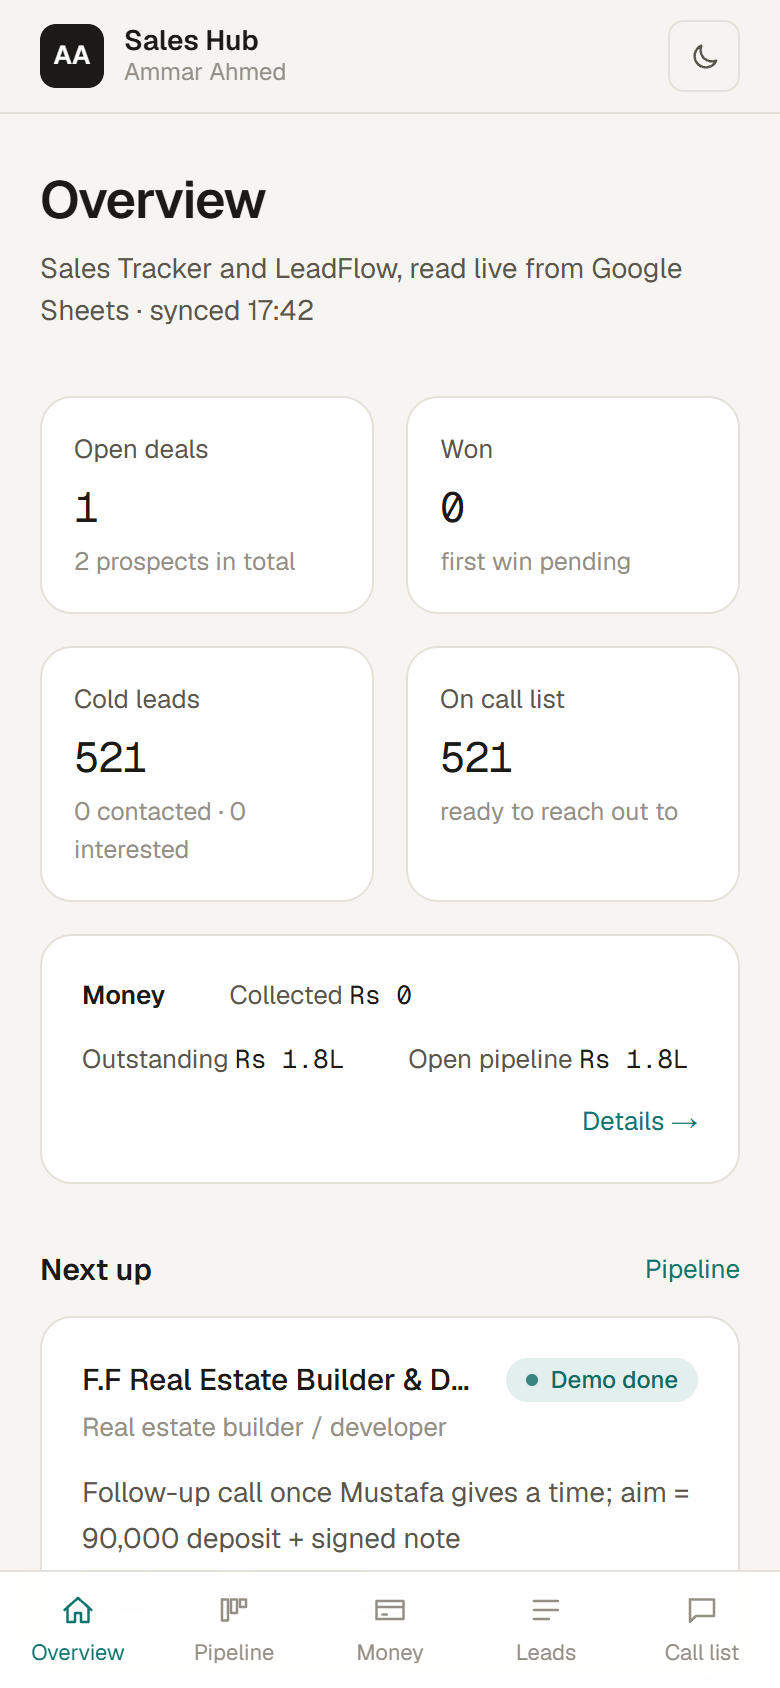
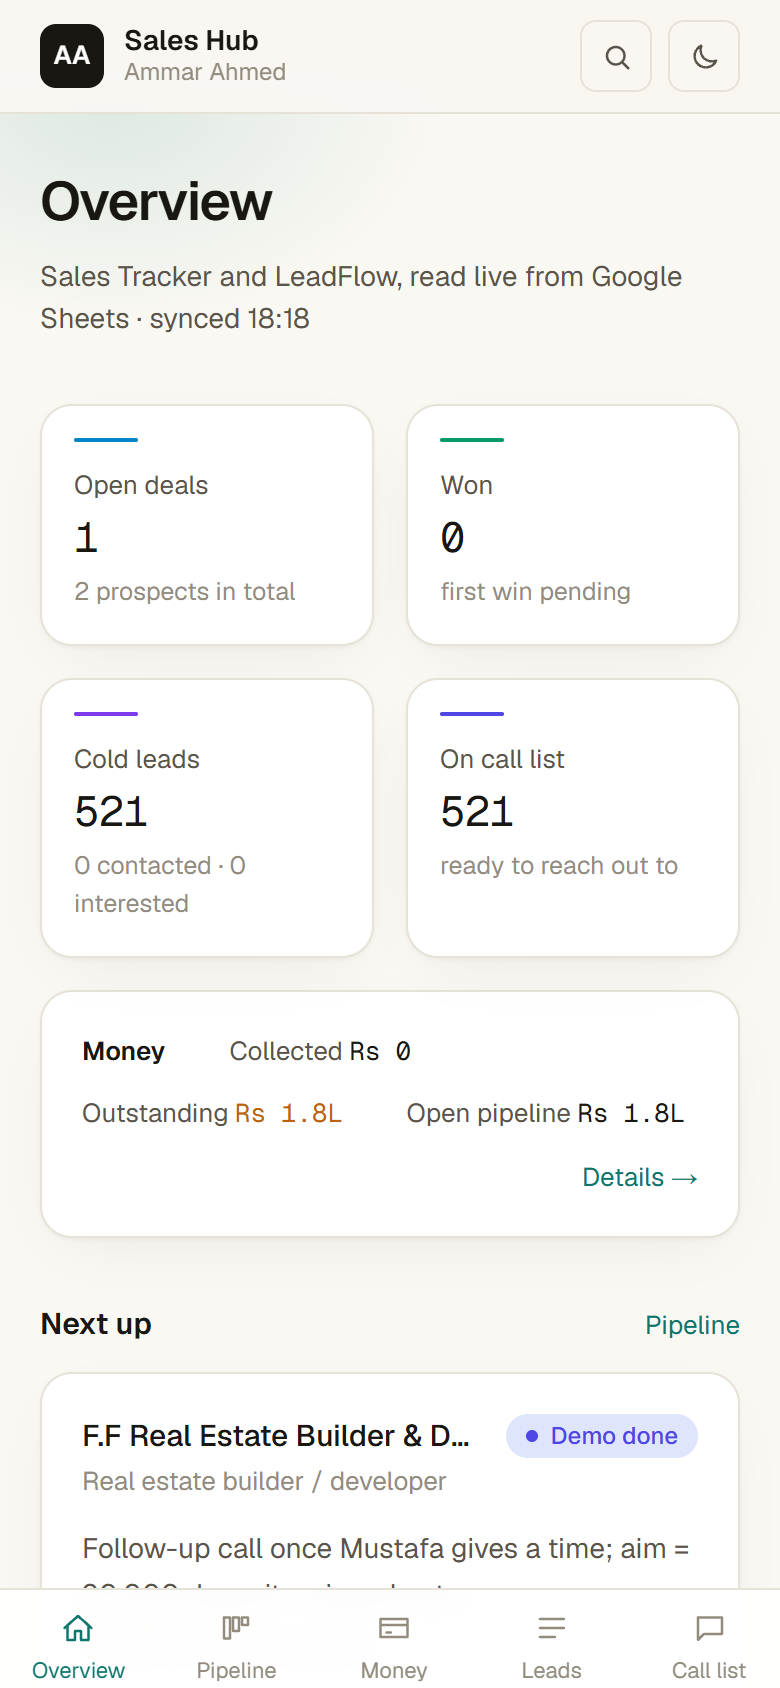
docs: refresh screenshots and README for global search, calendar/comms, colour spectrum

diff --git a/README.md b/README.md
@@ -9,19 +9,25 @@ Sheets and laid out so it's easy to scan on a laptop or a phone.
 
 ## What's in it
 
-- **Overview** — open deals, a money strip, the cold-lead funnel, and every
-  open deal's next step sorted by date (overdue in red), plus recent activity.
-- **Pipeline** — every prospect on a board, grouped by stage.
+- **Overview** — open deals, a money strip, the cold-lead funnel, upcoming
+  meetings, every open deal's next step sorted by date (overdue in red), and
+  recent activity.
+- **Global search** — ⌘K / Ctrl-K anywhere opens a command palette that
+  searches across prospects, leads, activity and the call list at once.
+- **Pipeline** — every prospect on a board, grouped by stage, with a colour
+  running from first contact through to won.
 - **Money** — collected, outstanding, open-pipeline value and win rate, then
   per-deal value / received / balance with a progress bar.
-- **Prospect page** — the offer, the price, payment status, notes, full
-  history, and one-tap Call / WhatsApp for each contact.
+- **Prospect page** — the offer, the price, payment status, scheduled
+  meetings, logged emails and messages, full history, and one-tap Call /
+  WhatsApp for each contact.
 - **Activity** — every call, message and meeting, newest first.
 - **Leads** — the 500+ businesses LeadFlow found without a working website,
   searchable and filterable by country and trade.
 - **Call list** — each lead's ready-written first message, with Copy and
   Open-in-WhatsApp buttons.
-- **Light and dark themes**, with a toggle that remembers your choice.
+- **Light and dark themes**, with a toggle that remembers your choice, and a
+  stage colour spectrum that runs through both.
 
 ## How it works
 
@@ -35,6 +41,8 @@ here within a minute.
   sheet doesn't break anything.
 - Free-text stages ("Likely lost — no reply") are mapped onto a fixed set for
   grouping and colour; the original wording is kept.
+- Meetings come from a `Calendar` tab and logged emails/messages from a `Comms`
+  tab in the tracker, each linked to a prospect by name.
 - Requests to Google are retried on dropped connections. If the sheets can't be
   reached, pages say so instead of showing stale numbers.
 - Kept out of search engines (`noindex` + a disallow-all `robots.txt`). An
@@ -42,17 +50,17 @@ here within a minute.
 
 ## Screenshots
 
-| Money | Pipeline |
+| Global search (⌘K) | Money |
 | --- | --- |
-| ![Money](docs/screenshots/hub-07-money.png) | ![Pipeline](docs/screenshots/hub-02-pipeline.png) |
+| ![Search](docs/screenshots/hub-04-search.png) | ![Money](docs/screenshots/hub-05-money.png) |
 
-| Prospect | Activity |
+| Pipeline | Prospect |
 | --- | --- |
-| ![Prospect](docs/screenshots/hub-03-prospect.png) | ![Activity](docs/screenshots/hub-04-activity.png) |
+| ![Pipeline](docs/screenshots/hub-02-pipeline.png) | ![Prospect](docs/screenshots/hub-03-prospect.png) |
 
-| Leads | Call list |
+| Activity | Leads |
 | --- | --- |
-| ![Leads](docs/screenshots/hub-05-leads.png) | ![Call list](docs/screenshots/hub-06-calls.png) |
+| ![Activity](docs/screenshots/hub-06-activity.png) | ![Leads](docs/screenshots/hub-07-leads.png) |
 
 | Dark theme | Mobile |
 | --- | --- |
